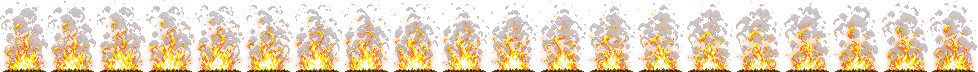
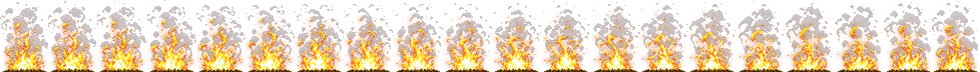
Bonfire lit
Updated bonfire animation to reduce shifting

diff --git a/classes.js b/classes.js
@@ -51,16 +51,6 @@ class Sprite {
     this.draw();
     this.animateFrames();
   }
-
-  //DONT DELETE THIS MIGHT NEED
-  // animateObject() {
-  //   let object;
-  //   for (let i = 0; i < this.objects.length; i++) {
-  //     object = this.objects[i];
-  //     this.image.src = object[1];
-  //     context.drawImage(this.image, object[0].x, object[0].y);
-  //   }
-  // }
 }
 
 class Fighter extends Sprite {
@@ -196,34 +186,9 @@ class Scene {
       object = this.objects[i];
       const image = new Image();
       image.src = object[1];
-      // this.image.src = object[1];
-      // const src = this.image.src
       context.drawImage(image, object[0].x, object[0].y);
     }
   }
 }
 
-// Below is old code that Ian wrote and might need
 
-// if (this.position.y < 425) {
-//     //velocity changes a sprite position
-//     this.position.y += this.velocity.y
-//     this.velocity.y += gravity
-
-// } else if (this.onGround == "true"){
-//     this.position.y += this.velocity.y
-
-// } else if (this.position.y >= 425){
-//     this.onGround = "true"
-//     this.velocity.y = 0
-// }
-// this.position.x += this.velocity.x;
-// this.position.y += this.velocity.y;
-
-// if (this.position.y + this.height + this.velocity.y >= canvas.height - 70) {
-//   this.velocity.y = 0;
-//   this.position.y = 775;
-//   this.onGround = "true";
-// } else {
-//   this.velocity.y += gravity;
-// }

diff --git a/index.js b/index.js
@@ -68,10 +68,10 @@ const player = new Fighter({
 const bonefire = new Sprite({
   position: {
     x: 170,
-    y: 660,
+    y: 660, 
   },
-  imageSrc: "./resources/bonfire.png",
-  scale: 2,
+  imageSrc: "./resources/bonfire3.png",
+  scale: 2, 
   framesMax: 20,
 });
 
@@ -497,23 +497,6 @@ function showBorders(currentScene) {
       break;
   }
 }
-
-//TO BE IMPLEMENTED!!!!!!!!!!!!
-// const animatedObjects = [
-//   new Fighter(
-//     {
-//       imageSrc: "resources/120x80_PNGSheets/_Idle.png",
-//       framesMax: 10,
-//     }
-//     [{ x: 100, y: 0 }, "./resources/platform.png"],
-//     [{ x: 450, y: 350 }, "./resources/platform.png"],
-//   ),
-//   new Sprite(2, [
-//     [{ x: 250, y: 100 }, "./resources/platform.png"],
-//     [{ x: 150, y: 200 }, "./resources/platform.png"],
-//     [{ x: 50, y: 300 }, "./resources/platform.png"],
-//   ]),
-// ];
 
 function animate() {
   window.requestAnimationFrame(animate);
